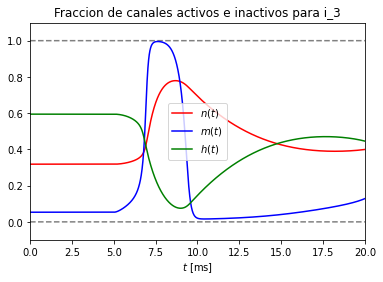
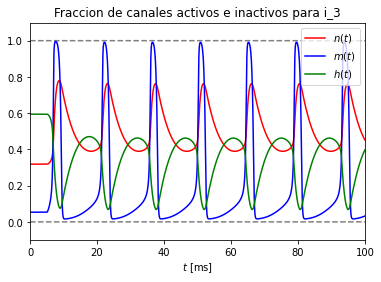
6.1

diff --git a/trabajo_practico1.py b/trabajo_practico1.py
@@ -272,12 +272,11 @@ p = [c, gna, gk, gl, vna, vk, vl, i]
 a = 0  # tiempo inicial
 b = 500  # tiempo final
 h = 0.01  # paso
-k = int((b - a) / h)  # canitdad de pasos en el tiempo dado
+k = int((b - a) / h)  # cantidad de pasos en el tiempo dado
 
 
 # 3.1)
 t, w = integrador_ode(rk4, f, x, a, b, k, p)
-print(w[0, :])
 
 
 """
@@ -411,11 +410,11 @@ plt.show()
 a = 0  # tiempo inicial
 b = 500  # tiempo final
 h = 0.01  # paso
-k = int((b - a) / h)  # canitdad de pasos en el tiempo dado
+k = int((b - a) / h)  # cantidad de pasos en el tiempo dado
 p = [c, gna, gk, gl, vna, vk, vl, i2]
 
 t, w = integrador_ode(rk4, f, valores_equilibrio, a, b, k, p)
-print(w[0, :])
+
 
 
 """
@@ -507,11 +506,10 @@ plt.show()
 a = 0  # tiempo inicial
 b = 100  # tiempo final
 h = 0.01  # paso
-k = int((b - a) / h)  # canitdad de pasos en el tiempo dado
+k = int((b - a) / h)  # cantidad de pasos en el tiempo dado
 p = [c, gna, gk, gl, vna, vk, vl, i3]
 
 t, w = integrador_ode(rk4, f, valores_equilibrio, a, b, k, p)
-print(w[0, :])
 
 
 """
@@ -523,7 +521,7 @@ plt.title("Potencial de Membrana para funcion de corriente i_3")
 
 plt.xlabel("$t$ [ms]")
 plt.ylabel("$ v(t) [mV] ")
-plt.xlim(0, 20)
+plt.xlim(0, 100)
 plt.ylim(-20, 120)
 
 
@@ -541,7 +539,7 @@ plt.show()
 plt.title("Fraccion de canales activos e inactivos para i_3")
 
 plt.xlabel("$t$ [ms]")
-plt.xlim(0, 20)
+plt.xlim(0, 100)
 plt.ylim(-0.1, 1.1)
 
 
@@ -565,14 +563,40 @@ plt.show()
 Ejercicio 6) período refractario
 6.1) Implemente la corriente de membrana
 
-𝑖(𝑡)={10𝜇𝐴/𝑐𝑚2,0𝜇𝐴/𝑐𝑚2,𝑡∈[10𝑚𝑠𝑘,10𝑚𝑠𝑘+2𝑚𝑠],𝑘∈{1,2,3,4,5,...}𝑐.𝑐.
+      𝑖(𝑡) = {
+          10𝜇𝐴/𝑐𝑚2, 𝑡 ∈[10𝑚𝑠𝑘,10𝑚𝑠𝑘+2𝑚𝑠]m 𝑘 ∈ {1,2,3,4,5,...} 
+          0𝜇𝐴/𝑐𝑚2,𝑐.𝑐.
 """
+
+
+
+
+def i4(t):
+    for i in range(1, 10):
+        if 10 * i  <= t <= 10 * i+2:
+            return 10.0
+    return 0.0
+
+
+
+plt.title("Corriente i_4")
+
+plt.xlabel("$t$ [ms]")
+plt.ylabel("Micro Amperes ")
+plt.xlim(-1, 50)
+t_i = np.linspace(-1, 100, 1000)
+plt.plot(t_i, np.vectorize(i4)(t_i), c="cyan")
+
+plt.legend()
+plt.show()
+
 
 """
 6.2) Integre nuevamente las ODEs para 𝑡∈[0𝑚𝑠,100𝑚𝑠], usando la corriente del
      inciso 12), la condición incial los valores de equilibrio derivados
      en el inciso 6) y un paso de integración 𝑑𝑡=0.01.
 """
+
 
 """
 6.3) Grafique nuevamente el potencial de membrana en el rango de tiempos
